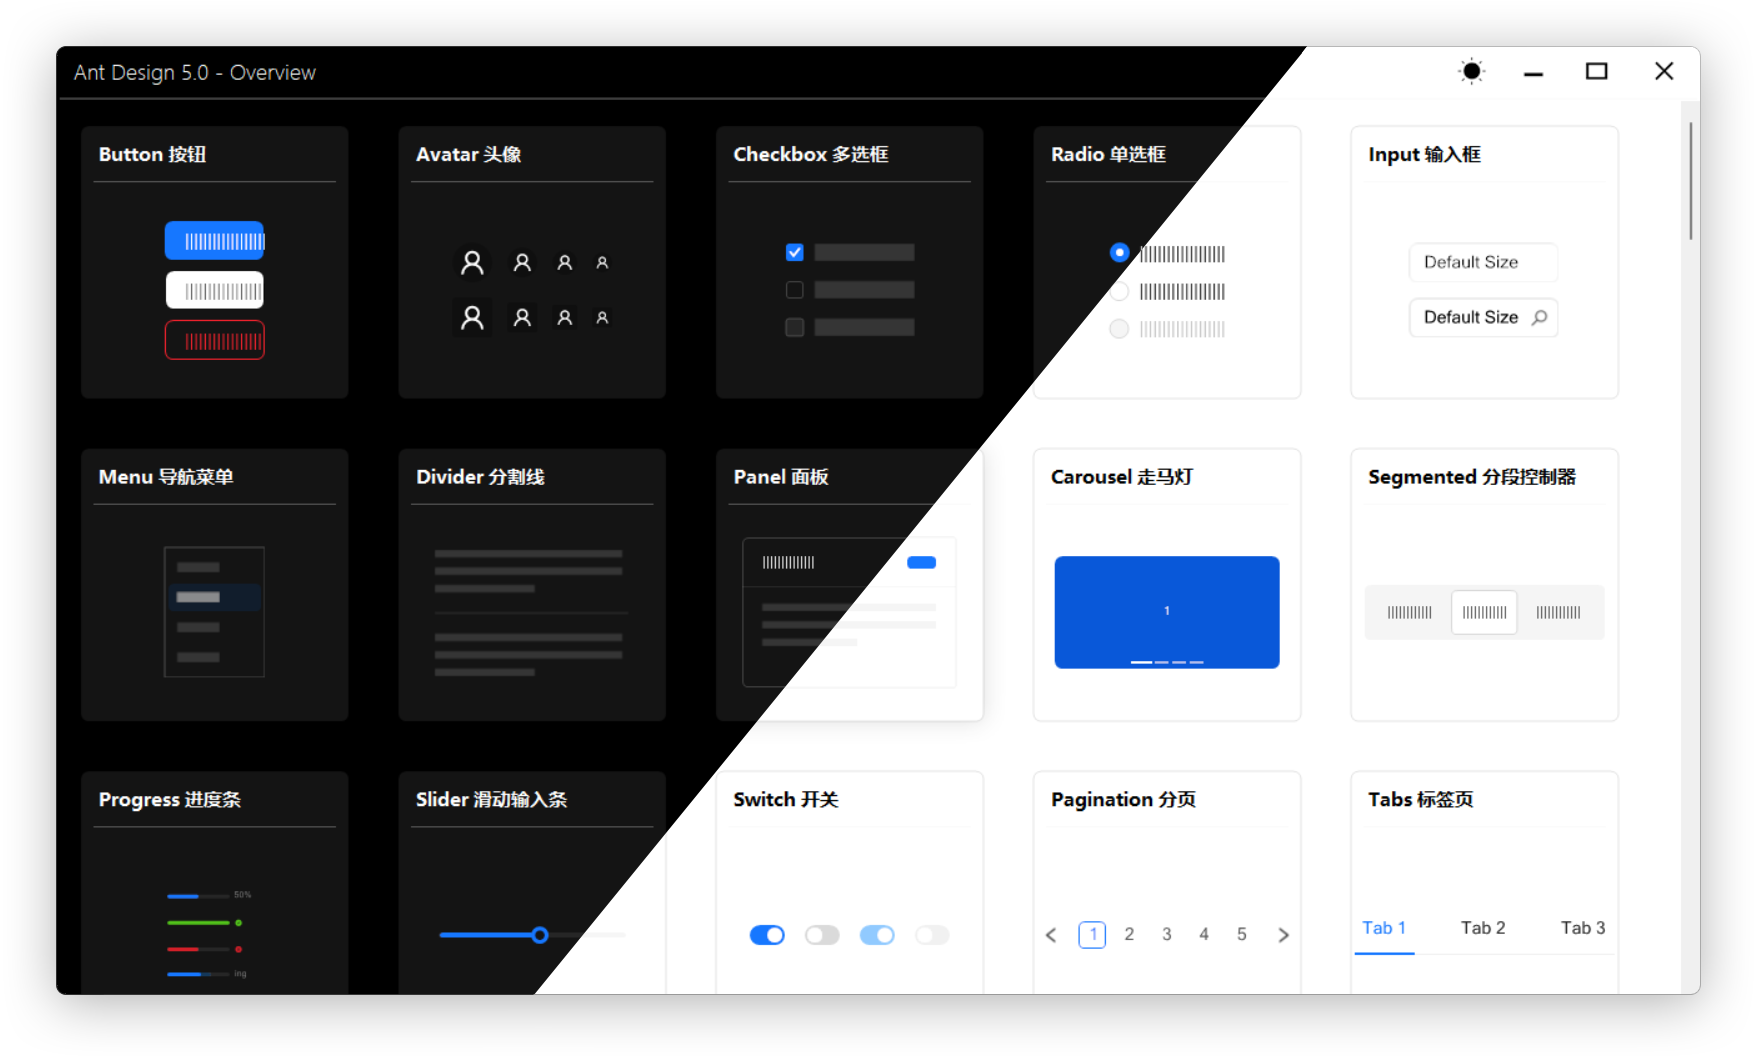
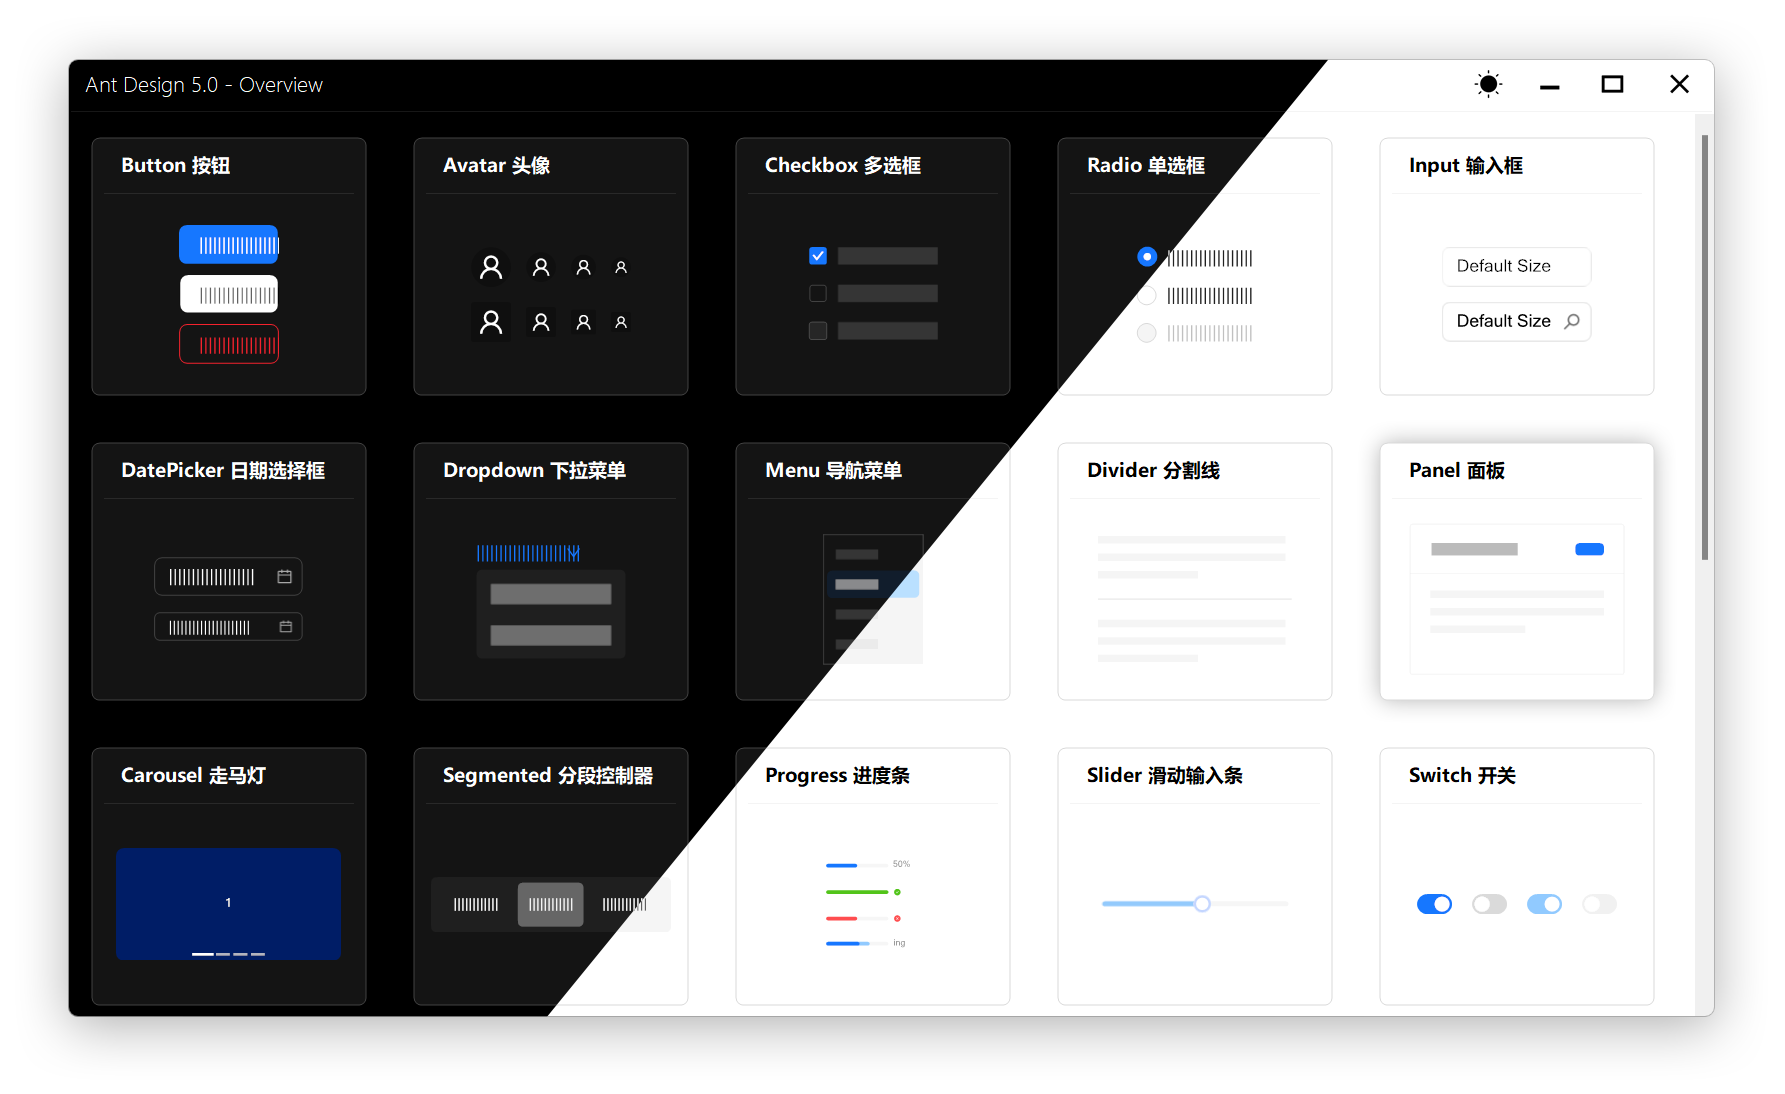
👍 Nice UI

diff --git a/README.md b/README.md
@@ -9,6 +9,7 @@ https://ant-design.antgroup.com/components/overview-cn
 
 ![DEMO](screenshot/Pre/Demo.png?raw=true)
 ![OverView](screenshot/Pre/OverView.png?raw=true)
+![Scale150](screenshot/Pre/Scale150.png?raw=true)
 
 ### ✨特性
 
@@ -18,6 +19,7 @@ https://ant-design.antgroup.com/components/overview-cn
 - 📦 无边框窗口，拥有原生窗口特性
 - 💎 3D翻转效果
 - 👚 主题配置
+- 👓 DPI适配
 
 ### 🖥支持环境
 
